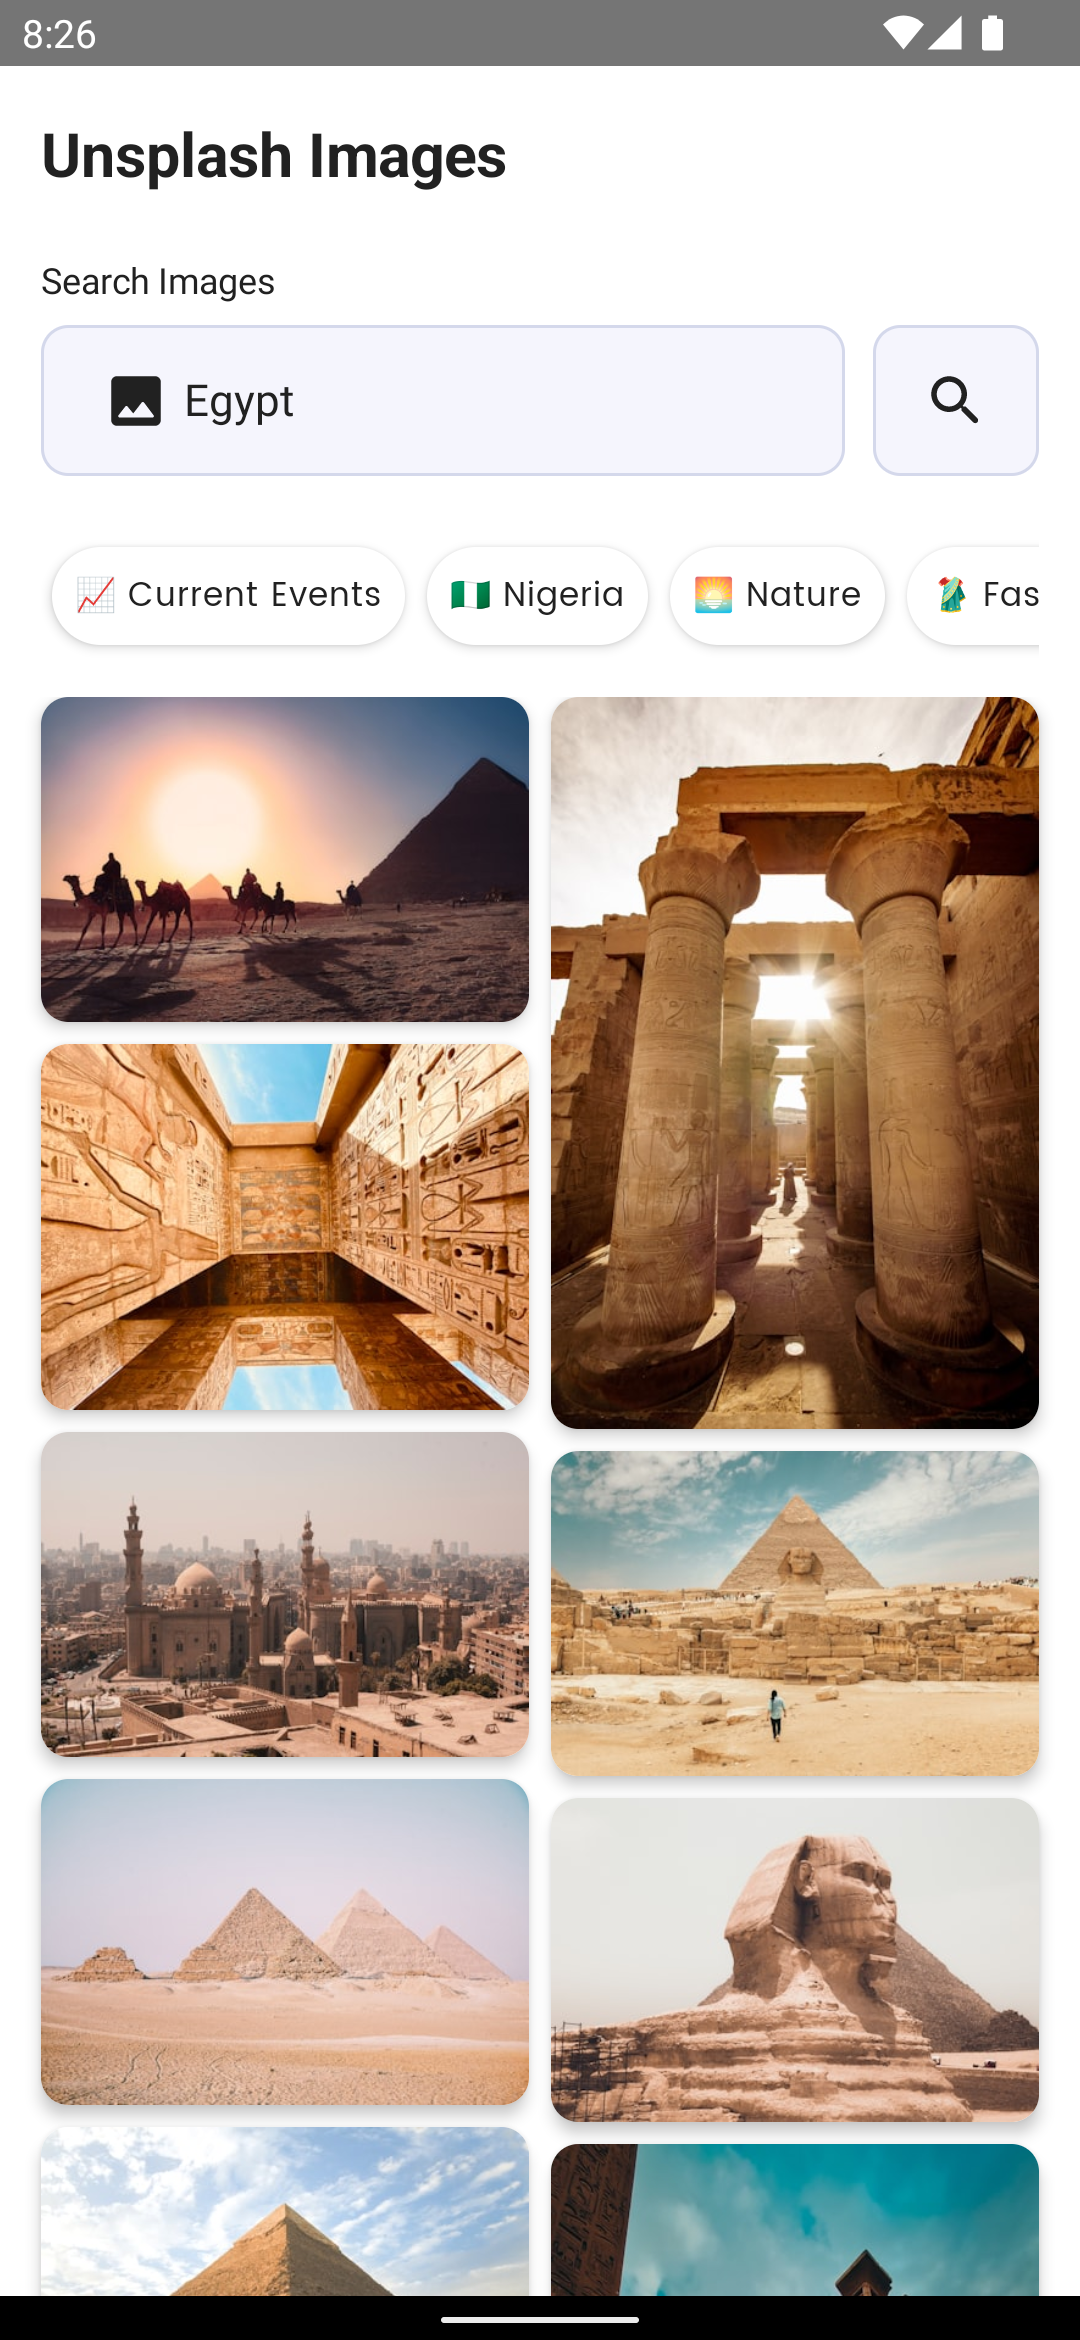
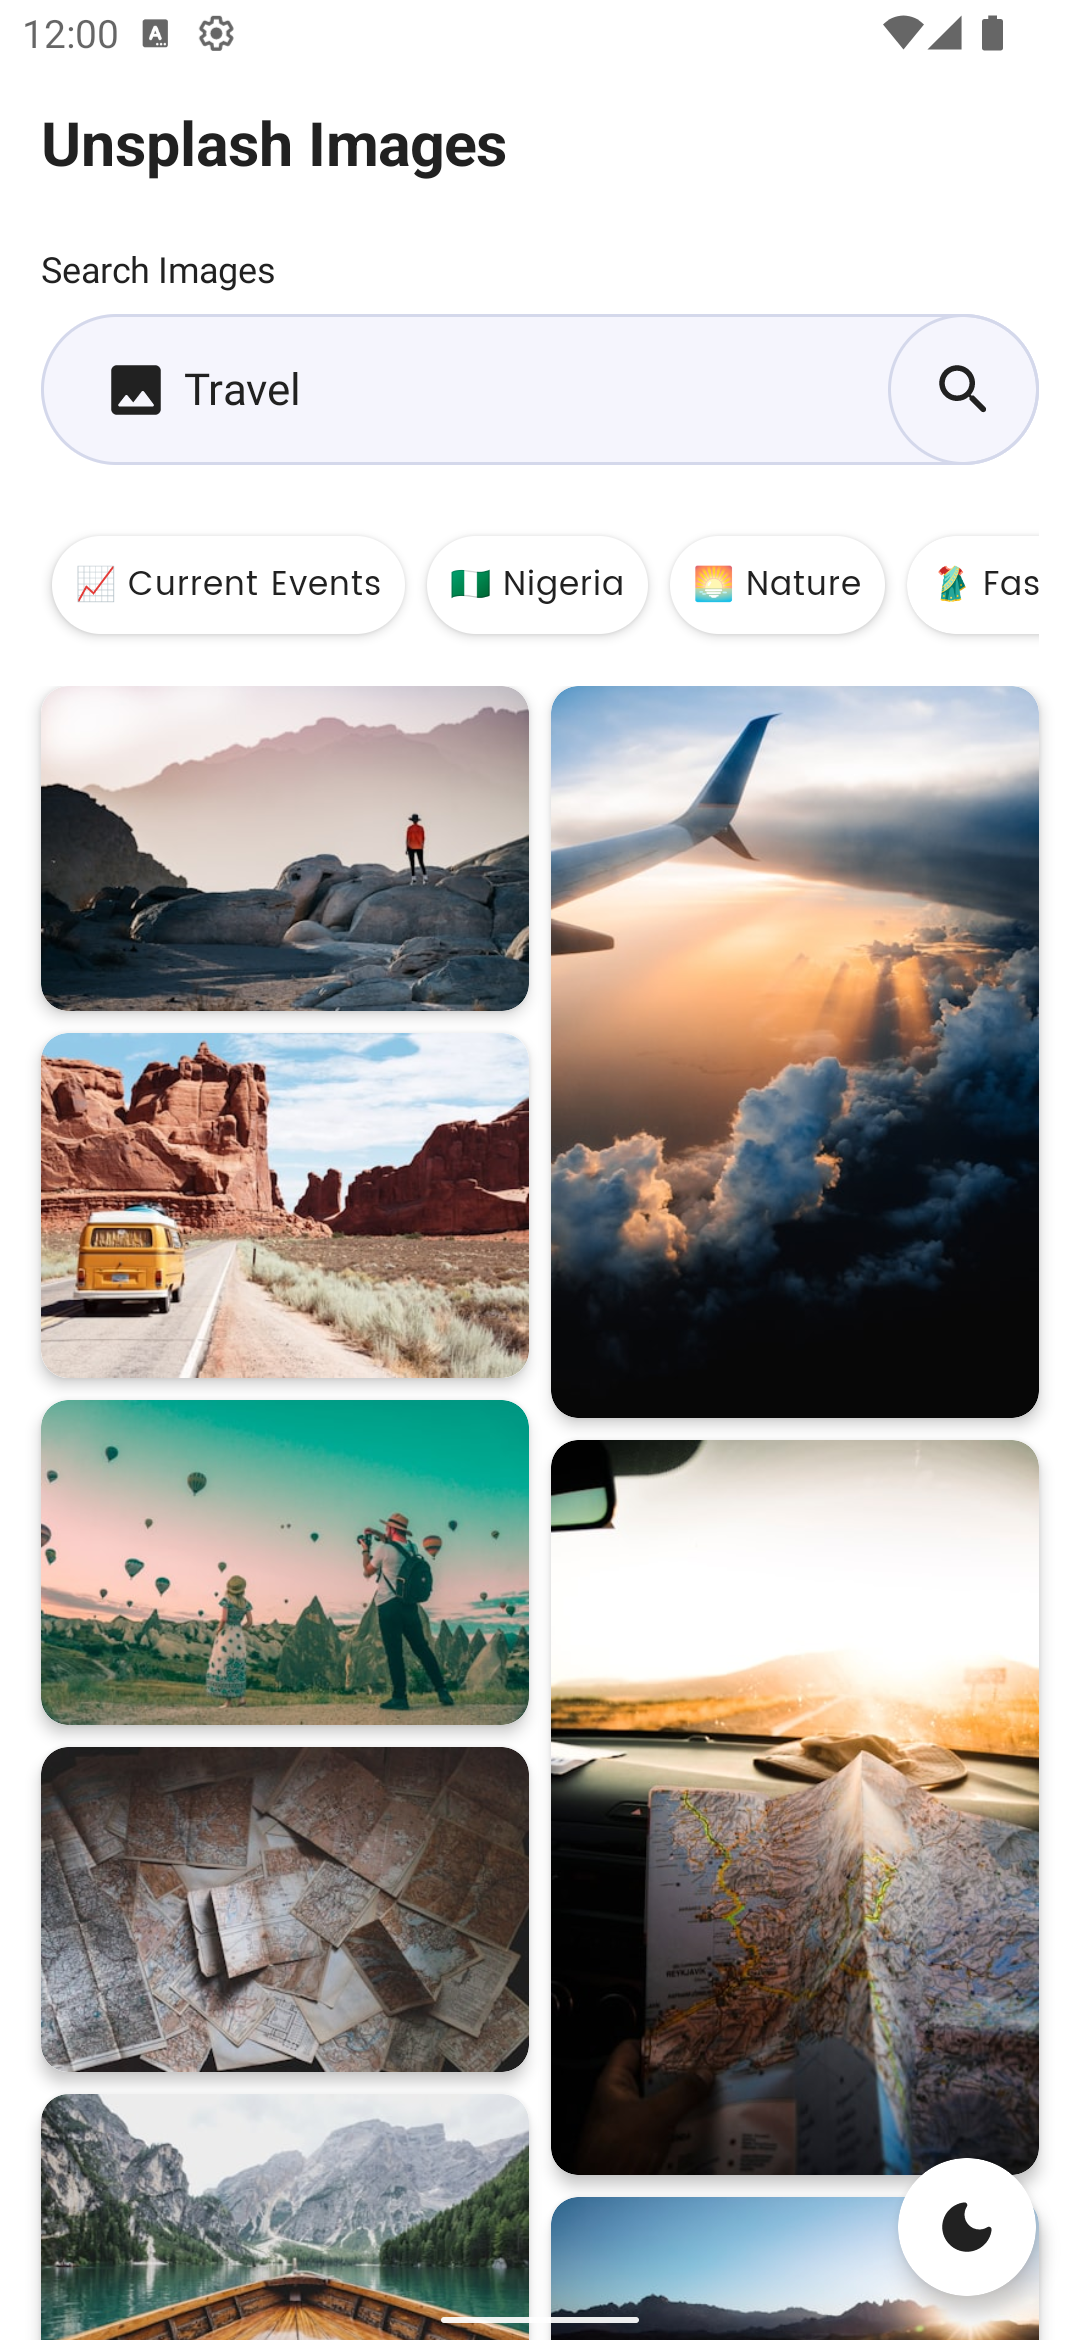
Update Readme, expand default query option and reduce dialog image preview quality

diff --git a/composeApp/src/commonMain/kotlin/ui/viewmodel/HomeScreenViewModel.kt b/composeApp/src/commonMain/kotlin/ui/viewmodel/HomeScreenViewModel.kt
@@ -25,7 +25,7 @@ class HomeScreenViewModel(
 ) : MviViewModel<HomeScreenEvent, HomeScreenState>(HomeScreenState()), KoinComponent {
 
     companion object {
-        private val DEFAULT_QUERY = listOf("Nigeria", "Egypt", "Africa", "Dreams", "Husky")
+        private val DEFAULT_QUERY = listOf("Nigeria", "Egypt", "Africa", "Dreams", "Husky", "Travel", "Fashion")
     }
 
     private var currentQuery: MutableStateFlow<String>

diff --git a/composeApp/src/commonMain/kotlin/ui/dialog/ImagePreviewDialog.kt b/composeApp/src/commonMain/kotlin/ui/dialog/ImagePreviewDialog.kt
@@ -58,7 +58,7 @@ fun ImagePreviewDialog(photo: Photo?, onDismissCLicked: () -> Unit) {
         )
     ) {
         DialogContent(
-            imageUrl = photo?.urls?.full,
+            imageUrl = photo?.urls?.regular,
             imageColor = photo?.color,
             blurHash = photo?.blurHash,
             imageWidth = photo?.width,

diff --git a/README.md b/README.md
@@ -53,4 +53,28 @@ A project to display images from [Unsplash](https://unsplash.com) API using Kotl
 | ![Desktop Screenshot 1](./images/desktop_screenshot_1.png) | ![Desktop Screenshot 2](./images/desktop_screenshot_2.png) |
 |------------------------------------------------------------|------------------------------------------------------------|
 
+## Before running
+
+- Check your system with [KDoctor](https://github.com/Kotlin/kdoctor)
+- Install JDK 17 or higher on your machine
+
+#### Android
+
+To run the application on android device/emulator:
+
+- open project in Android Studio and run imported android run configuration
+
+#### Desktop
+
+Run the desktop application: `./gradlew :composeApp:run` or `./gradlew run`
+
+#### iOS
+
+To run the application on iPhone device/simulator:
+
+- Open `iosApp/iosApp.xcproject` in Xcode and run standard configuration
+- Or use [Kotlin Multiplatform Mobile plugin](https://plugins.jetbrains.com/plugin/14936-kotlin-multiplatform-mobile)
+  for Android Studio
+  Run iOS simulator UI tests: `./gradlew :composeApp:iosSimulatorArm64Test`
+
 <br>
